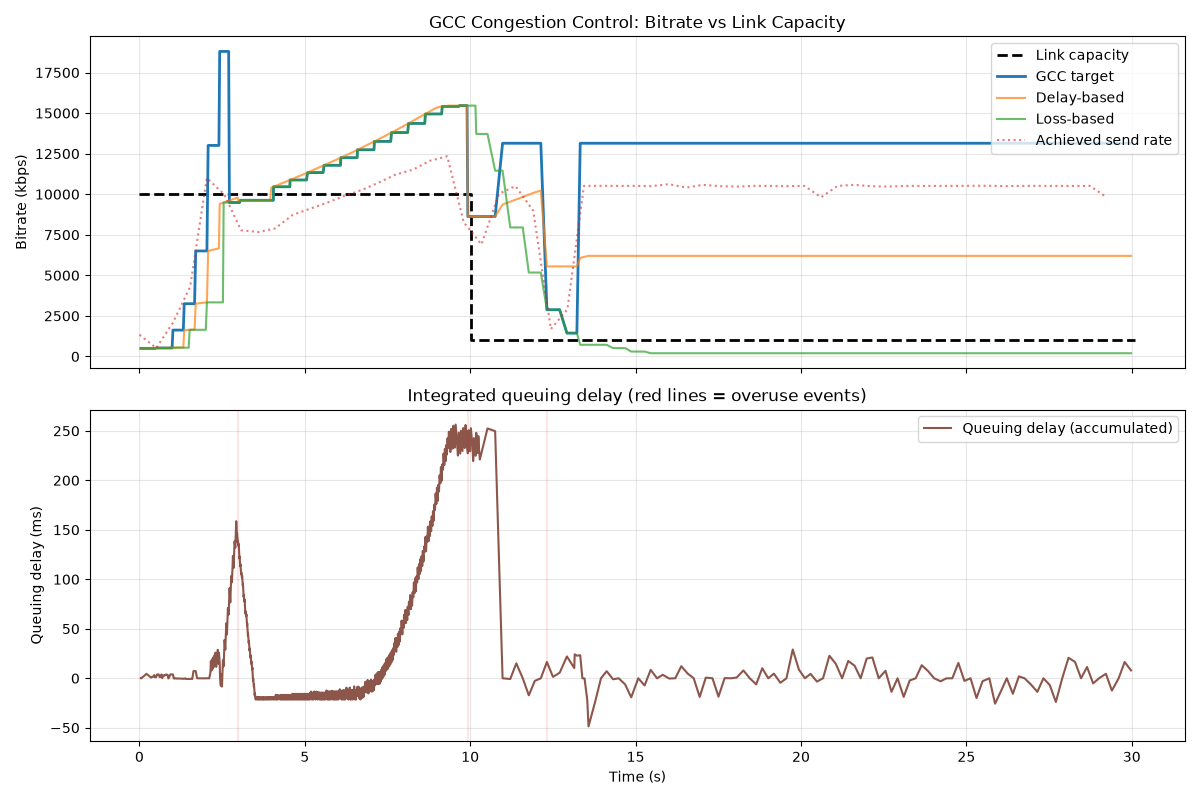
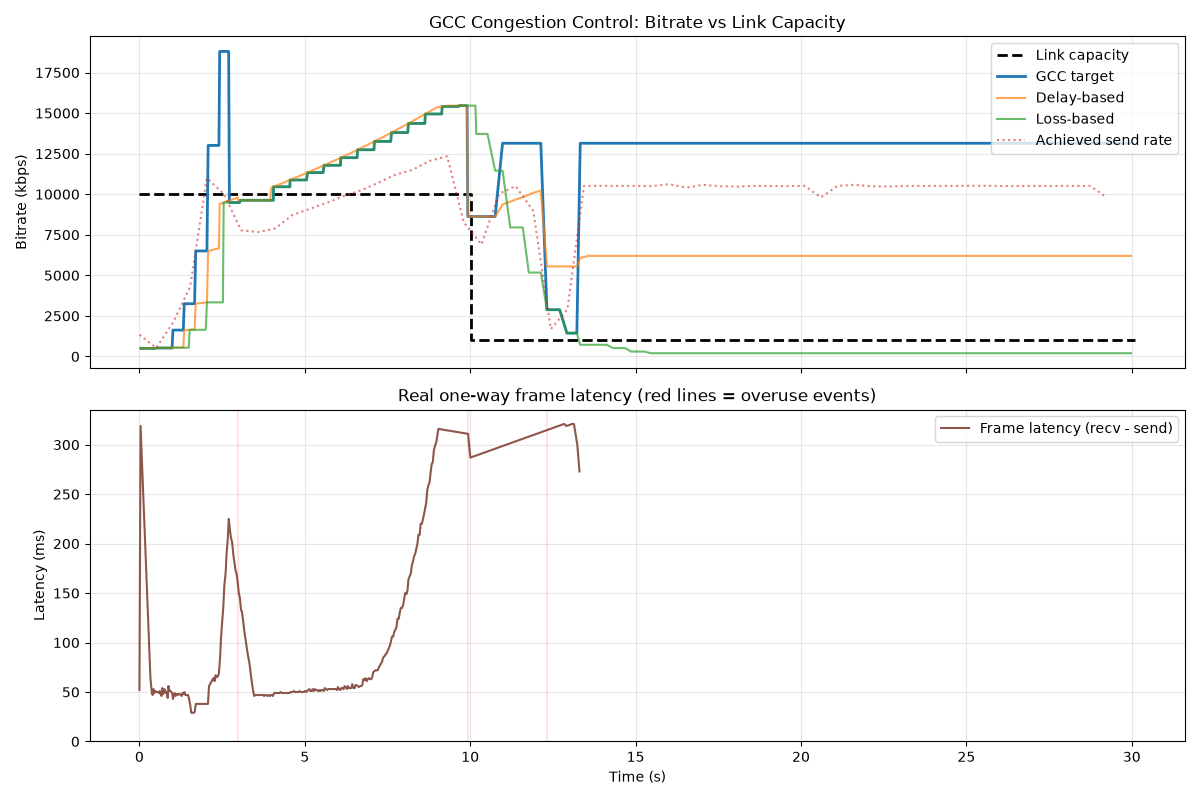
Plot real one-way latency from logs, not the trendline delay signal
The latency panel previously plotted accumulated_delay_ (the trendline's
delay-VARIATION integral), which legitimately goes negative when the queue
drains and is reset at each probe — it was never a real latency.

Since sender and receiver share the wall clock (localhost/same host), real
one-way latency = decode_time(recv.log) - send_time(send.log). plot_gcc.py now
parses both logs and plots per-frame latency on the time axis. Always >= 0.

Real latency (mean/max): static_1mbps 50/324ms, drop_10to1 95/321ms,
static_10mbps 117/323ms — consistent with the bitrate behavior (low-bw clean,
high-bw overshoot fills the queue).

diff --git a/scripts/plot_gcc.py b/scripts/plot_gcc.py
@@ -75,10 +75,39 @@ def main():
         r"\[" + _TS + r"\].*\[DataSender\] Sending frame (\d+) size=(\d+) bytes"
     )
     sends = []
+    send_ts_by_frame = {}
     for m in re_send.finditer(text):
-        sends.append({"ts": parse_ts(m.group(1)),
-                      "frame": int(m.group(2)),
-                      "bytes": int(m.group(3))})
+        ts = parse_ts(m.group(1))
+        frame = int(m.group(2))
+        sends.append({"ts": ts, "frame": frame, "bytes": int(m.group(3))})
+        # First time we see this frame's send (the send-start timestamp).
+        send_ts_by_frame.setdefault(frame, ts)
+
+    # Real one-way latency from the receiver log: for each frame, the time the
+    # last packet completed it (decode), minus the frame's send time. Sender and
+    # receiver share the wall clock (localhost / same host), so this is a true
+    # latency — not the trendline's accumulated delay-variation signal.
+    recv_log = result_dir / "recv.log"
+    latency_pts = []  # (send_ts, latency_ms)
+    if recv_log.exists():
+        rtext = recv_log.read_text()
+        re_decode = re.compile(
+            r"\[" + _TS + r"\].*Successfully decoded frame (\d+)")
+        # Fallback: last received packet for a frame, if no decode line.
+        re_rpkt = re.compile(
+            r"\[" + _TS + r"\].*Received packet \d+ for frame (\d+)")
+        recv_done = {}
+        for m in re_decode.finditer(rtext):
+            recv_done[int(m.group(2))] = parse_ts(m.group(1))
+        if not recv_done:
+            for m in re_rpkt.finditer(rtext):
+                # keep the latest timestamp seen per frame
+                recv_done[int(m.group(2))] = parse_ts(m.group(1))
+        for frame, rts in recv_done.items():
+            sts = send_ts_by_frame.get(frame)
+            if sts is not None:
+                latency_pts.append((sts, (rts - sts) * 1000.0))
+        latency_pts.sort()
 
     if not gcc_rows:
         print("No [GCC_STATE] lines found — did the run receive feedback?",
@@ -176,19 +205,21 @@ def main():
     ax1.legend(loc="upper right")
     ax1.grid(True, alpha=0.3)
 
-    # Panel 2: queuing delay (integrated trendline signal)
-    if gcc_rows:
-        ax2.plot(gt, [r["queuing_delay"] for r in gcc_rows],
-                 label="Queuing delay (accumulated)", color="C5")
-        # Mark overuse events
+    # Panel 2: real per-frame one-way latency (recv_done - send), from logs.
+    if latency_pts:
+        lt = [(ts - t0) for ts, _ in latency_pts]
+        lv = [lat for _, lat in latency_pts]
+        ax2.plot(lt, lv, label="Frame latency (recv - send)", color="C5")
+        # Mark overuse events from the GCC state stream.
         ovr_t = [r["ts"] - t0 for r in gcc_rows if r["usage"] == "overuse"]
         for t in ovr_t:
             ax2.axvline(t, color="red", alpha=0.1)
-    ax2.set_ylabel("Queuing delay (ms)")
+    ax2.set_ylabel("Latency (ms)")
     ax2.set_xlabel("Time (s)")
-    ax2.set_title("Integrated queuing delay (red lines = overuse events)")
+    ax2.set_title("Real one-way frame latency (red lines = overuse events)")
     ax2.legend(loc="upper right")
     ax2.grid(True, alpha=0.3)
+    ax2.set_ylim(bottom=0)
 
     fig.tight_layout()
     out = fig_dir / "gcc_behavior.png"
